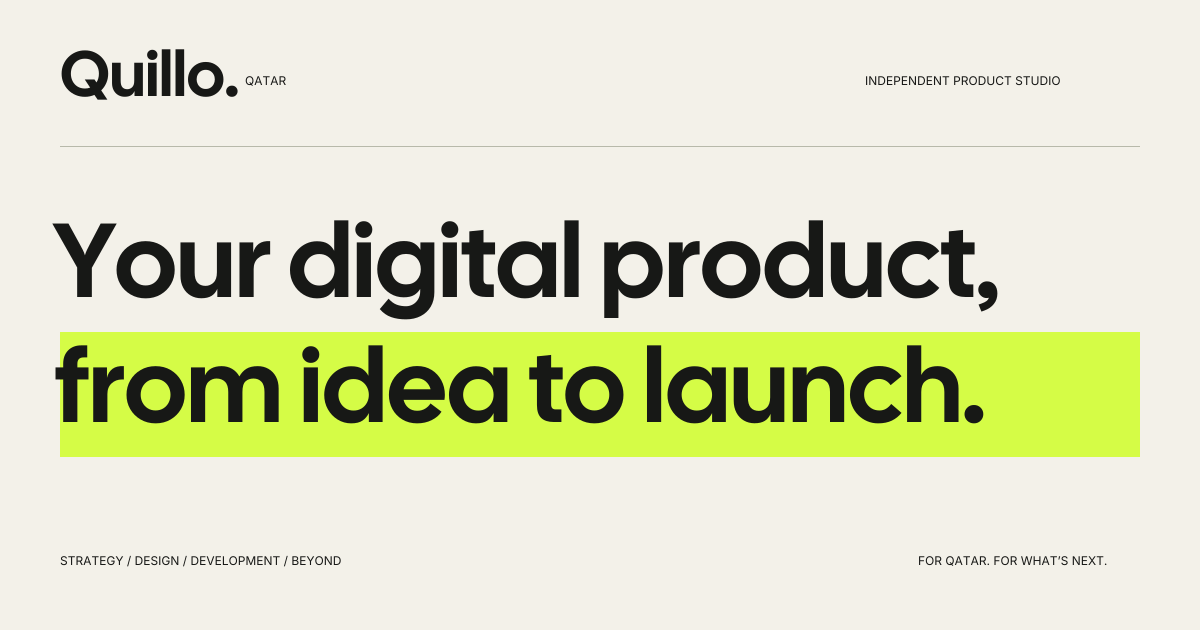
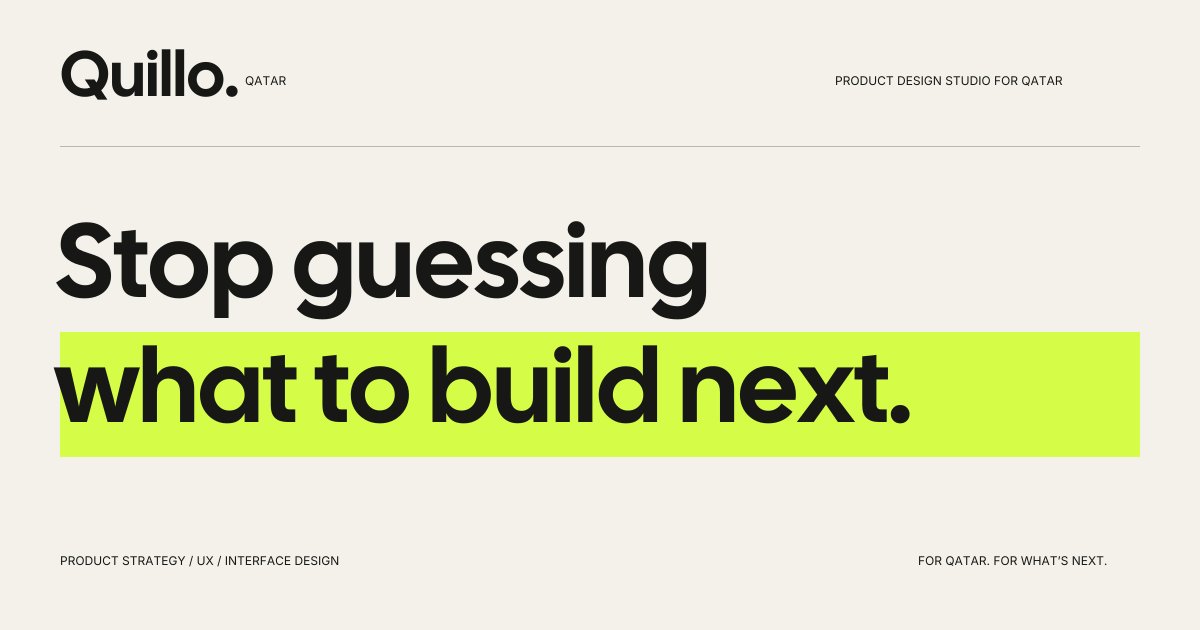
Clarify product design positioning and MVP Design scope

diff --git a/app/page.tsx b/app/page.tsx
@@ -24,8 +24,8 @@ const selectedProjects = ["stackray", "helpmegrow", "quillo"].map(slug => projec
 const capabilities = [
   { title: "Know what to build.", label: "STRATEGY & DISCOVERY", description: "Find the real problem, understand the people, and define the product worth making.", tags: ["Product strategy", "User journeys", "Requirements", "Roadmaps"] },
   { title: "Make it feel right.", label: "PRODUCT DESIGN", description: "Turn complexity into an experience people can understand, use, and come back to.", tags: ["UX research", "UX/UI design", "Prototyping", "Design systems"] },
-  { title: "Bring it to life.", label: "WEB & MOBILE DEVELOPMENT", description: "Connected, working products. From customer-facing apps to the tools behind your business.", tags: ["Web apps & SaaS", "iOS & Android", "Portals & internal tools", "APIs & integrations"] },
-  { title: "Launch. Learn. Improve.", label: "RELEASE & ONGOING SUPPORT", description: "Get it into people’s hands, make the handover clear, and keep the product moving forward.", tags: ["Testing & QA", "Deployment", "App-store submissions", "Maintenance & iteration"] },
+  { title: "Design it for the real world.", label: "WEB & MOBILE APP DESIGN", description: "Design clear, usable experiences for customer-facing apps and the tools behind your business, ready for your development team.", tags: ["Web apps & SaaS", "iOS & Android", "Portals & internal tools", "Responsive interfaces"] },
+  { title: "Hand it over. Keep improving.", label: "DEVELOPER HANDOFF & DESIGN SUPPORT", description: "Give your developers clear files and specifications, then refine the experience as you learn from users.", tags: ["Usability testing", "Design specifications", "Developer handoff", "Design iteration"] },
 ];
 function Label({ number, children }: { number: string; children: ReactNode }) {
   return <p className="q-label" data-reveal="rule"><span>{number}</span>{children}</p>;
@@ -37,17 +37,17 @@ function Hero() {
   const [entranceSkipped, setEntranceSkipped] = useState(false);
   return <section className="q-hero q-wrap" id="intro" aria-labelledby="hero-title" data-hero-skip={entranceSkipped || undefined}
     onFocusCapture={event => { if (event.target.matches(":focus-visible")) setEntranceSkipped(true); }}>
-    <div className="q-hero-eyebrow"><p><span className="q-live-dot" data-hero-enter="signal" /><span data-hero-enter="eyebrow">Independent minds. Complete products.</span></p><span data-hero-enter="location">FOR QATAR. FOR WHAT’S NEXT.</span></div>
+    <div className="q-hero-eyebrow"><p><span className="q-live-dot" data-hero-enter="signal" /><span data-hero-enter="eyebrow">PRODUCT DESIGN STUDIO FOR QATAR</span></p><span data-hero-enter="location">FOR QATAR. FOR WHAT’S NEXT.</span></div>
     <div className="q-hero-composition">
-      <ScrollHeadline>{[
-        <><span className="q-hero-piece" data-hero-enter="your">Your</span>{" "}<ElasticWord>digital</ElasticWord></>,
-        <><span className="q-hero-piece" data-hero-enter="product">product,</span>{" "}<span className="q-outline q-hero-piece" data-hero-enter="outline">from</span></>,
-        <><span><span className="q-hero-piece" data-hero-enter="idea">idea</span>{" "}<span className="q-hero-piece" data-hero-enter="to">to</span></span><LaunchSticker /></>,
+      <ScrollHeadline label="Stop guessing what to build next.">{[
+        <><span className="q-hero-piece" data-hero-enter="lead">Stop</span>{" "}<ElasticWord>guessing</ElasticWord></>,
+        <><span className="q-hero-piece" data-hero-enter="bridge">what</span>{" "}<span className="q-outline q-hero-piece" data-hero-enter="outline">to</span></>,
+        <><span className="q-hero-piece" data-hero-enter="verb">build</span><LaunchSticker /></>,
       ]}</ScrollHeadline>
       <StudioSeal />
     </div>
-    <div className="q-hero-bottom"><a className="q-scroll-link" href="#shipments"><span className="q-circle" data-hero-enter="scroll-disc"><Arrow /></span><span data-hero-enter="scroll-caption">SCROLL TO SEE<br />WHAT’S POSSIBLE</span></a><div><p data-hero-enter="description">We help startups and businesses in Qatar turn ideas into web and mobile products—with strategy, design, development, and launch handled by one team.</p><div className="q-hero-action" data-hero-enter="action"><ProjectLink location="hero">Let’s build your product</ProjectLink></div></div></div>
-    <div className="q-hero-index"><span data-hero-enter="index-left">STRATEGY / DESIGN / DEVELOPMENT / BEYOND</span><span data-hero-enter="index-right">01 — THE START OF SOMETHING</span></div>
+    <div className="q-hero-bottom"><a className="q-scroll-link" href="#shipments"><span className="q-circle" data-hero-enter="scroll-disc"><Arrow /></span><span data-hero-enter="scroll-caption">SCROLL TO SEE<br />WHAT’S POSSIBLE</span></a><div><p data-hero-enter="description">For founders turning an idea into a first product, and businesses whose current tools are holding them back. Quillo helps you find the right problem, shape the right solution, and design a web or mobile experience your team can take into development.</p><div className="q-hero-action" data-hero-enter="action"><ProjectLink location="hero">Let’s find your next move</ProjectLink><p className="q-hero-cta-note">A rough idea is enough to start.</p></div></div></div>
+    <div className="q-hero-index"><span data-hero-enter="index-left">PRODUCT STRATEGY / UX / INTERFACE DESIGN</span><span data-hero-enter="index-right">01 — THE START OF SOMETHING</span></div>
   </section>;
 }
 function ProjectArtwork({ project, index }: { project: (typeof selectedProjects)[number]; index: number }) {
@@ -73,7 +73,7 @@ function Capabilities() {
   return <section id="services" className="q-capabilities">
     <div className="q-wrap">
       <div className="q-section-top"><Label number="02">WHAT WE DO</Label><span className="q-small">FROM THE FIRST “WHAT IF” TO WHAT’S NEXT.</span></div>
-      <Stamp className="q-cap-stamp">NO<br />LOOSE<br />ENDS. ↙</Stamp><div className="q-cap-heading"><MotionTitle>{[<>A big picture.</>, <span className="q-title-accent" key="detail">Every little detail.</span>]}</MotionTitle><p>One team that connects the dots.<br />No gap between the idea and the thing people actually use.</p></div>
+      <Stamp className="q-cap-stamp">NO<br />LOOSE<br />ENDS. ↙</Stamp><div className="q-cap-heading"><MotionTitle>{[<>A big picture.</>, <span className="q-title-accent" key="detail">Every little detail.</span>]}</MotionTitle><p>Product strategy, UX, and interface design in one team.</p></div>
       <div className="q-cap-list">{capabilities.map((item, index) => <AnimatedDetails key={item.title} className="q-cap-item" open={index === 0} onToggle={event => captureLandingEvent("service selected", { location: "services", label: item.label, expanded: event.currentTarget.open, service_index: index + 1 })} summary={<><span className="q-cap-number">0{index + 1}</span><div><small data-reveal="rule">{item.label}</small><h3 data-reveal="line" data-reveal-delay={index * 60}>{item.title}</h3></div><span className="q-expand" aria-hidden="true" /></>}>
         <div className="q-cap-detail"><p>{item.description}</p><ul>{item.tags.map((tag, tagIndex) => <li key={tag} data-reveal="ticket" data-reveal-delay={tagIndex * 65}>{tag}</li>)}</ul></div>
       </AnimatedDetails>)}</div>
@@ -84,31 +84,31 @@ function About() {
   return <section id="about" className="q-about q-wrap">
     <Label number="03">THE STUDIO</Label>
     <div className="q-about-statement"><RegistrationType /></div>
-    <div className="q-about-bottom"><span className="q-about-aside" data-reveal="rule">SMALL ENOUGH TO CARE.<br />INVOLVED ENOUGH TO GET IT.</span><div data-reveal="sheet"><p className="q-lead">We’re Quillo Qatar. A product studio for people who see a better way of doing things.</p><p>Maybe you’re a founder building something new. Maybe you’re a business in Qatar ready to make a complicated process simple. We bring strategy, design, and development into the same conversation—and stay close from the first question to the next release.</p><a className="q-text-link" href="#contact">Meet your product team <Arrow /></a></div></div>
+    <div className="q-about-bottom"><span className="q-about-aside" data-reveal="rule">SMALL ENOUGH TO CARE.<br />INVOLVED ENOUGH TO GET IT.</span><div data-reveal="sheet"><p className="q-lead">We’re Quillo Qatar. A product design studio for people who see a better way of doing things.</p><p>Maybe you’re a founder building something new. Maybe you’re a business in Qatar ready to make a complicated process simple. We bring product strategy, UX, and interface design into the same conversation—from the first question to a clear handoff for your development team.</p><a className="q-text-link" href="#contact">Meet your product design team <Arrow /></a></div></div>
   </section>;
 }
 function Process() {
   return <section id="process" className="q-process">
     <div className="q-wrap"><div className="q-section-top"><Label number="04">HOW WE WORK</Label><span className="q-small">A SHARED DIRECTION. A CLEAR NEXT STEP.</span></div>
-      <div className="q-process-heading"><MotionTitle>{[<>From “what if”</>, <>to <span className="q-process-accent">“it’s live.”</span></>]}</MotionTitle><p>Clear milestones. Working previews. Honest conversations.<br />We set the timeline after discovery, around your actual scope.</p></div>
+      <div className="q-process-heading"><MotionTitle>{[<>From “what if”</>, <>to <span className="q-process-accent">“ready to build.”</span></>]}</MotionTitle><p>Clear milestones. Interactive prototypes. Honest conversations.<br />We set the timeline after discovery, around your actual scope.</p></div>
       <ProcessAssembly><ol className="q-timeline">{processSteps.map((step, index) => <li key={step.label} data-reveal="sheet" data-reveal-delay={index * 80}><span className="q-step-number" data-reveal="ticket" data-reveal-delay={120 + index * 80}>{step.label}</span><h3>{step.title}</h3><p>{step.description}</p><small>{step.deliverable}</small></li>)}</ol></ProcessAssembly>
-      <p className="q-process-note">Your product, in your hands. Source files, documentation, and access handover are part of the plan.</p>
+      <p className="q-process-note">Your design, ready for development. Design files, prototypes, specifications, and a handoff with your developers are part of the plan.</p>
     </div>
   </section>;
 }
 function Pricing() {
   return <section id="pricing" className="q-pricing q-wrap">
     <Label number="05">THE INVESTMENT</Label>
-    <div className="q-pricing-heading"><MotionTitle>{[<>A clear start.</>, <>Room to grow.</>]}</MotionTitle><div><span className="q-draft-label">PREVIEW / PROVISIONAL PRICING</span><p>Start with what you need. Platforms, features, integrations, and support scope determine your final quote.</p></div></div>
+    <div className="q-pricing-heading"><MotionTitle>{[<>A clear start.</>, <>Room to grow.</>]}</MotionTitle><div><span className="q-draft-label">PREVIEW / PROVISIONAL PRICING</span><p>Start with what you need. User journeys, screens, platforms, and research scope determine your final design quote.</p></div></div>
     <div className="q-price-table">{services.map((service, index) => <article key={service.id} className="q-price-row" data-reveal="sheet">
       <div className="q-price-title"><span className="q-small">0{index + 1} / {service.description}</span><h3>{service.title}</h3></div>
-      <ul>{service.includes.map(item => <li key={item}>{item}</li>)}</ul>
+      <div className="q-price-deliverables"><ul>{service.includes.map(item => <li key={item}>{item}</li>)}</ul>{service.scopeNote && <p className="q-price-scope">{service.scopeNote}</p>}</div>
       <div data-reveal="ticket" data-reveal-delay="200" className="q-price-amount ag-price-amount" data-analytics-plan={service.description} data-analytics-price={service.amount} data-analytics-currency={service.currency} data-analytics-interval={service.interval}>
         <span>Starting from</span><p><small>{service.currency}</small> {formatPrice(service.amount)}</p><span>{service.interval === "month" ? "per month · agreed scope" : "per project · agreed scope"}</span>
         <a href={bookingUrl} target="_blank" rel="noopener noreferrer" className="q-text-link" data-analytics-location="pricing">Let’s talk scope <Arrow /></a>
       </div>
     </article>)}</div>
-    <p className="q-pricing-note">Draft starting prices for this local preview. An MVP covers one agreed core experience; web, iOS, and Android are scoped individually. Final pricing and third-party costs are confirmed in your proposal.</p>
+    <p className="q-pricing-note">Draft starting prices for this local preview. MVP Design covers a tested prototype and development-ready design for one agreed core experience, not working software. Web, iOS, and Android are scoped individually. Development is scoped separately with your team or development partner. Final deliverables and pricing are confirmed in your proposal.</p>
   </section>;
 }
 function Testimonials() {
@@ -126,7 +126,7 @@ function Contact() {
   const [calendarLoaded, setCalendarLoaded] = useState(false);
   return <ContactScene>
     <div className="q-wrap"><div className="q-section-top"><Label number="08">YOUR NEXT CHAPTER</Label><span className="q-small">AN IDEA. A CHALLENGE. A CONVERSATION.</span></div>
-      <Stamp className="q-contact-stamp">GOOD<br />THINGS<br />AHEAD. ↗</Stamp><div className="q-contact-main"><ContactHeadline /><div data-reveal="ticket" data-reveal-delay="140"><p>You bring the ambition.<br />We’ll bring the questions, the thinking,<br />and the team to make it real.</p><button className="q-button" type="button" aria-expanded={showCalendar} aria-controls="q-booking" onClick={() => { setCalendarLoaded(true); setShowCalendar(!showCalendar); }}>{showCalendar ? "Close the calendar" : "Book a discovery call"}<Arrow /></button><span className="q-contact-small">30 minutes. A useful first conversation.</span></div></div>
+      <Stamp className="q-contact-stamp">GOOD<br />THINGS<br />AHEAD. ↗</Stamp><div className="q-contact-main"><ContactHeadline /><div data-reveal="ticket" data-reveal-delay="140"><p>You bring the ambition.<br />We’ll bring the questions, the thinking,<br />and the design to move you forward.</p><button className="q-button" type="button" aria-expanded={showCalendar} aria-controls="q-booking" onClick={() => { setCalendarLoaded(true); setShowCalendar(!showCalendar); }}>{showCalendar ? "Close the calendar" : "Book a discovery call"}<Arrow /></button><span className="q-contact-small">30 minutes. A useful first conversation.</span></div></div>
       <div id="q-booking" className="q-booking-shell" data-open={showCalendar} inert={!showCalendar} aria-hidden={!showCalendar}><div><div className="q-booking-panel">{calendarLoaded && <><p className="q-booking-note">Local preview: this is the team’s existing Hippo calendar. A Quillo Qatar booking page will replace it before launch.</p><BookingCalendar /><a href={bookingUrl} target="_blank" rel="noopener noreferrer" className="q-text-link" data-analytics-location="calendar_fallback">Open calendar in a new tab <Arrow /></a></>}</div></div></div>
     </div>
   </ContactScene>;

diff --git a/data/faqs.ts b/data/faqs.ts
@@ -1,9 +1,9 @@
 export const faqs = [
-  { question: "What can you build with us?", answer: "Web applications, SaaS products, customer portals, internal tools, and iOS and Android apps. We define the right platform and first release around your users, business goals, and budget. You can bring us a new idea or an existing product that needs to evolve." },
+  { question: "What can you design with us?", answer: "Web applications, SaaS products, customer portals, internal tools, and iOS and Android apps. We define the right experience around your users, business goals, and budget, then create prototypes and interface designs for your developers. You can bring us a new idea or an existing product that needs to evolve." },
   { question: "Do we need a fully formed idea?", answer: "No. Bring the problem, the opportunity, or the workflow that is slowing your business down. Discovery turns that starting point into requirements, a prioritized scope, and a practical roadmap." },
-  { question: "How long does a product take?", answer: "We agree on a timeline after discovery, once the platforms, core features, integrations, and dependencies are understood. You get clear milestones and regular working previews. There is no blanket two-week promise for an entire product." },
-  { question: "What do the starting prices include?", answer: "The preview shows provisional starting prices in QAR for discovery, a scoped MVP, and monthly support. A scoped MVP covers an agreed core experience; it does not automatically include a website, iOS app, and Android app together. Platforms, features, integrations, and support scope determine your final quote. Third-party subscriptions and platform fees are identified separately in the proposal." },
-  { question: "Do you handle launch and app stores?", answer: "Yes. We support deployment, release testing, store assets and submission, and handover for the platforms in your scope. App-store reviews and approval dates are controlled by Apple and Google, so we cannot guarantee them." },
-  { question: "What happens after launch?", answer: "You receive the agreed source files, documentation, and access handover. We agree on ownership and third-party licenses in the proposal. Ongoing maintenance, monitoring, fixes, and new features are available through a separately scoped support engagement." },
+  { question: "How long does product design take?", answer: "We agree on a timeline after discovery, once the user journeys, screens, platforms, and research needs are understood. You get clear design milestones and regular prototype reviews. Development timelines are agreed separately with your development team or partner." },
+  { question: "What do the starting prices include?", answer: "The preview shows provisional starting prices in QAR for product discovery, MVP Design, and monthly design support. MVP Design includes the agreed core user journeys, high-fidelity screens, an interactive prototype, usability testing, and design files and specifications for developer handoff. It does not include working software. Web, iOS, and Android are scoped individually. Final deliverables and pricing are confirmed in your proposal; development is scoped separately." },
+  { question: "Do you develop the product?", answer: "We handle product strategy and design, including prototypes and developer handoff. Development is scoped separately with your team or development partner." },
+  { question: "What happens after handoff?", answer: "You receive the agreed design files, prototypes, and specifications, and we walk your developers through the experience. We agree on ownership and third-party licenses in the proposal. Ongoing UX reviews, usability improvements, and feature design are available through a separately scoped design support engagement." },
   { question: "Do you work with businesses in Qatar?", answer: "Yes. Quillo Qatar is focused on startups and established businesses serving Qatar. We plan communication around Qatar time and quote in QAR. This site is in English; Arabic product experiences and right-to-left interfaces can be included in your project scope." },
 ];

diff --git a/app/components/stackray-story.tsx b/app/components/stackray-story.tsx
@@ -143,6 +143,6 @@ function Funnel() {return <section className="sr-section ag-wrap" id="funnel"><L
 function Delivery() {return <section className="sr-dark sr-delivery" id="delivery"><div className="ag-wrap sr-section"><Label number="11">Delivery</Label><Title>We didn’t stop<br/><em>at Figma.</em></Title><ul className="sr-delivery-list">{delivery.map((item,i)=><li key={item}><span>0{i+1}</span><strong>{item}</strong><ResponsiveImage src="/agero/check.svg" alt=""/></li>)}</ul><p className="sr-dark-note">The interface wasn’t handed off and forgotten.<br/><strong>We shipped the system collecting the leads.</strong></p></div></section>;}
 function Outcomes() {return <section className="sr-section ag-wrap" id="outcome"><Label number="12">What shipped</Label><Title>No invented<br/><em>conversion numbers.</em></Title><p className="sr-outcome-intro">Just the system that is live today.</p><Trail label="What shipped" items={["Positioning","Landing page","Waitlist","Confirmation","Admin","Invite"]}/><div className="sr-measure"><span className="sr-eyebrow">WHAT WE’LL MEASURE NEXT</span><ul>{["Waitlist conversion","CTA engagement","Visitor → signup","Traffic","Invites sent"].map(t=><li key={t}>{t}</li>)}</ul><p>Stackray went from a complex product idea to a proposition someone can understand before finishing the hero.</p></div></section>;}
 function Takeaway() {return <section className="sr-section sr-takeaway" id="takeaway"><div className="ag-wrap"><Label number="13">Founder takeaway</Label><Title>Your product probably<br/>isn’t too complicated.</Title><Reveal><p className="sr-takeaway-answer">Your website may just be explaining it from the inside out.</p></Reveal><div className="sr-takeaway-bottom"><p>Stackray had Gmail scanning, subscription detection, security, cancellation, evidence systems and multiple finding types.<br/><br/>The website didn’t need to explain all of them at once. It needed to make one idea obvious:</p><blockquote>Connect your inbox.<br/>See where your SaaS<br/>money is leaking.</blockquote></div></div></section>;}
-function Outro() {return <section className="sr-section sr-outro ag-wrap" id="case-outro"><p className="ag-label">(Your next product starts here)</p><Title>Your next idea.<br/><em>Let’s build it.</em></Title><Booking location="stackray_outro"/><p>A useful first conversation.<br/>30 minutes to explore your product and next steps.</p></section>;}
+function Outro() {return <section className="sr-section sr-outro ag-wrap" id="case-outro"><p className="ag-label">(Your next product starts here)</p><Title>Your next idea.<br/><em>Let’s shape it.</em></Title><Booking location="stackray_outro"/><p>A useful first conversation.<br/>30 minutes to explore your product and next steps.</p></section>;}
 
 export function StackrayStory() {return <div className="sr-story"><nav className="sr-chapters" aria-label="Case-study chapters"><a href="#snapshot">Overview</a><a href="#positioning">Strategy</a><a href="#experience">Experience</a><a href="#delivery">Delivery</a><a href="#outcome">Outcome</a></nav><Snapshot/><Problem/><Positioning/><Evidence/><Architecture/><Messaging/><Trust/><VisualDirection/><Experience/><Funnel/><Delivery/><Outcomes/><Takeaway/><Outro/></div>;}

diff --git a/app/components/quillo-story.tsx b/app/components/quillo-story.tsx
@@ -161,4 +161,4 @@ function Outcome() { return <section className="ql-section ag-wrap" id="outcome"
   <Reveal className="ql-takeaway"><span className="ql-eyebrow">THE FOUNDER TAKEAWAY</span><blockquote>When information is everywhere,<br /><em>direction becomes the value.</em></blockquote><p>Quillo’s page makes the path, the evidence, and the next step easy to understand.</p></Reveal>
 </section>; }
 
-export function QuilloStory() { return <article className="ql-story"><nav className="ql-chapters" aria-label="Case-study chapters"><a href="#snapshot">Overview</a><a href="#strategy">Strategy</a><a href="#experience">Experience</a><a href="#outcome">Outcome</a></nav><Snapshot /><Challenge /><Strategy /><Positioning /><Journey /><Opening /><LearningLoop /><LandingPageProof /><VisualDirection /><Objections /><Conversion /><Outcome /><section className="ql-outro ql-section" id="case-outro"><div className="ag-wrap"><p className="ag-label">(Your next product starts here.)</p><Title>Your next idea.<br /> <em>Let’s build it.</em></Title><a className="ag-button" href={bookingUrl} target="_blank" rel="noopener noreferrer" data-analytics-location="quillo_outro">Book a call <Arrow /></a><p className="ql-note">30 minutes to explore your product, priorities, and next steps.</p></div></section></article>; }
+export function QuilloStory() { return <article className="ql-story"><nav className="ql-chapters" aria-label="Case-study chapters"><a href="#snapshot">Overview</a><a href="#strategy">Strategy</a><a href="#experience">Experience</a><a href="#outcome">Outcome</a></nav><Snapshot /><Challenge /><Strategy /><Positioning /><Journey /><Opening /><LearningLoop /><LandingPageProof /><VisualDirection /><Objections /><Conversion /><Outcome /><section className="ql-outro ql-section" id="case-outro"><div className="ag-wrap"><p className="ag-label">(Your next product starts here.)</p><Title>Your next idea.<br /> <em>Let’s shape it.</em></Title><a className="ag-button" href={bookingUrl} target="_blank" rel="noopener noreferrer" data-analytics-location="quillo_outro">Book a call <Arrow /></a><p className="ql-note">30 minutes to explore your product, priorities, and next steps.</p></div></section></article>; }

diff --git a/app/hero-entrance.css b/app/hero-entrance.css
@@ -3,6 +3,7 @@
 .q-hero-piece, .q-launch-arrival { display: inline-block; }
 .q-launch-arrival { transform-origin: 0 100%; }
 .q-hero-action { width: fit-content; }
+.q-site .q-hero-cta-note { margin-top: 12px; font-size: 11px; line-height: 1.6; color: var(--q-muted); }
 .q-hero-index { position: relative; border-top-color: transparent; }
 .q-hero-index::before { content: ""; position: absolute; top: -1px; left: 0; right: 0; height: 1px; background: var(--q-line); transform-origin: 0 50%; }
 
@@ -17,12 +18,11 @@
   .q-hero [data-hero-enter="signal"] { animation-name: q-hero-fade; animation-duration: 450ms; }
   .q-hero [data-hero-enter="eyebrow"] { animation-name: q-hero-wipe; --q-enter-delay: 50ms; }
   .q-hero [data-hero-enter="location"] { animation-name: q-hero-wipe; --q-enter-delay: 110ms; }
-  .q-hero [data-hero-enter="your"] { animation-name: q-hero-type; --q-enter-delay: 100ms; }
-  .q-hero [data-hero-enter="digital"] { animation-name: q-hero-type; --q-enter-delay: 175ms; }
-  .q-hero [data-hero-enter="product"] { animation-name: q-hero-type; --q-enter-delay: 250ms; }
+  .q-hero [data-hero-enter="lead"] { animation-name: q-hero-type; --q-enter-delay: 100ms; }
+  .q-hero [data-hero-enter="word"] { animation-name: q-hero-type; --q-enter-delay: 175ms; }
+  .q-hero [data-hero-enter="bridge"] { animation-name: q-hero-type; --q-enter-delay: 250ms; }
   .q-hero [data-hero-enter="outline"] { animation-name: q-hero-outline; --q-enter-delay: 335ms; }
-  .q-hero [data-hero-enter="idea"] { animation-name: q-hero-type; --q-enter-delay: 400ms; }
-  .q-hero [data-hero-enter="to"] { animation-name: q-hero-type; --q-enter-delay: 445ms; }
+  .q-hero [data-hero-enter="verb"] { animation-name: q-hero-type; --q-enter-delay: 400ms; }
   .q-hero [data-hero-enter="sticker"] { animation-name: q-hero-sticker; --q-enter-delay: 530ms; animation-duration: 950ms; }
   .q-hero [data-hero-enter="seal"] { animation-name: q-hero-seal; --q-enter-delay: 430ms; animation-duration: 1000ms; }
   .q-hero [data-hero-enter="hint"] { animation-name: q-hero-hint; --q-enter-delay: 850ms; animation-duration: 650ms; }

diff --git a/app/components/studio-play.tsx b/app/components/studio-play.tsx
@@ -37,14 +37,14 @@ export function LaunchSticker() {
 
   return <span className="q-sticker-anchor">
     <span className="q-launch-arrival" data-hero-enter="sticker">
-    <m.button type="button" className="q-launch-sticker" aria-label="Toss the launch sticker" title="Drag it or press to give it a toss"
+    <m.button type="button" className="q-launch-sticker" aria-label="Toss the next step sticker" title="Drag it or press to give it a toss"
       drag={!reduced} dragMomentum={false} dragElastic={.15} dragConstraints={{ left: -70, right: 70, top: -60, bottom: 45 }}
       style={{ x, y, rotate: rotation }} onPointerDown={() => { dragged.current = false; }}
       onDragStart={() => { dragged.current = true; stop(); }} onDrag={(_, info) => rotation.set(-3 + info.offset.x * .12)} onDragEnd={land}
       onClick={event => { if (event.detail === 0 || !dragged.current) toss(); }}
       whileDrag={{ scale: 1.08, cursor: "grabbing" }}>
-      <span className="q-sticker-meta" aria-hidden="true"><span>IDEA → REALITY</span><span>№ 001</span></span>
-      <span>launch.</span>
+      <span className="q-sticker-meta" aria-hidden="true"><span>FIND YOUR NEXT MOVE</span><span>№ 001</span></span>
+      <span>next.</span>
       <span className="q-sticker-notch" aria-hidden="true" />
     </m.button>
     </span>
@@ -54,7 +54,7 @@ export function LaunchSticker() {
 
 export function ElasticWord({ children }: { children: string }) {
   const reduced = useReducedMotion();
-  return <span className="q-elastic-word" data-hero-enter="digital" aria-label={children}>{[...children].map((letter, index) => <m.span key={index} aria-hidden="true"
+  return <span className="q-elastic-word" data-hero-enter="word" aria-label={children}>{[...children].map((letter, index) => <m.span key={index} aria-hidden="true"
     whileHover={reduced ? {} : { y: -16, rotate: index % 2 ? 12 : -12, scaleY: 1.18 }}
     transition={{ type: "spring", stiffness: 450, damping: 10 }}
     >{letter}</m.span>)}</span>;

diff --git a/data/services.ts b/data/services.ts
@@ -1,15 +1,16 @@
 export type Service = {
   id: string; title: string; description: string; amount: number;
-  currency: "QAR"; interval: "project" | "month"; includes: string[];
+  currency: "QAR"; interval: "project" | "month"; includes: string[]; scopeNote?: string;
 };
 /** Provisional starting prices for the local preview, not final quotations. */
 export const services: Service[] = [
   { id: "discovery", title: "Find the right first move.", description: "Product discovery", amount: 5000, currency: "QAR", interval: "project",
     includes: ["Business goals & user needs", "Requirements & core journeys", "Prioritized scope & product roadmap"] },
-  { id: "mvp", title: "Make the idea real.", description: "Scoped MVP", amount: 25000, currency: "QAR", interval: "project",
-    includes: ["UX/UI for the agreed core experience", "Development, integrations & testing", "Launch support & product handover"] },
-  { id: "support", title: "Keep moving forward.", description: "Ongoing support", amount: 2500, currency: "QAR", interval: "month",
-    includes: ["Agreed maintenance & monitoring", "Prioritized fixes & improvements", "A clear monthly scope & review"] },
+  { id: "mvp", title: "Design the first version.", description: "MVP Design", amount: 25000, currency: "QAR", interval: "project",
+    includes: ["Core user journeys & high-fidelity screens", "Interactive prototype & usability testing", "Design files, UI specifications & developer handoff"],
+    scopeNote: "Design deliverables only. Development is scoped separately." },
+  { id: "support", title: "Keep moving forward.", description: "Ongoing design support", amount: 2500, currency: "QAR", interval: "month",
+    includes: ["UX reviews & usability improvements", "Design updates for agreed features", "A clear monthly design scope & review"] },
 ];
 export function formatPrice(amount: number) {
   return new Intl.NumberFormat("en-QA", { maximumFractionDigits: 0 }).format(amount);

diff --git a/app/components/helpmegrow-story.tsx b/app/components/helpmegrow-story.tsx
@@ -137,6 +137,6 @@ function Outcome() { return <section className="hmg-section ag-wrap" id="outcome
   <Reveal className="hmg-takeaway"><span className="hmg-eyebrow">THE FOUNDER TAKEAWAY</span><blockquote>{study.takeaway}</blockquote></Reveal>
 </section>; }
 
-function Outro() { return <section className="hmg-outro hmg-section" id="case-outro"><div className="ag-wrap"><p className="ag-label">(From the first idea to the next release.)</p><Title>Your next idea.{" "}<br /><em>Let’s build it.</em></Title><a className="ag-button" href={bookingUrl} target="_blank" rel="noopener noreferrer" data-analytics-location="helpmegrow_outro">Book a call <ResponsiveImage className="ag-icon" src="/agero/arrow.svg" alt="" /></a><p className="hmg-outro-note">30 minutes to explore your product, priorities, and next steps.</p></div></section>; }
+function Outro() { return <section className="hmg-outro hmg-section" id="case-outro"><div className="ag-wrap"><p className="ag-label">(From the first idea to developer handoff.)</p><Title>Your next idea.{" "}<br /><em>Let’s shape it.</em></Title><a className="ag-button" href={bookingUrl} target="_blank" rel="noopener noreferrer" data-analytics-location="helpmegrow_outro">Book a call <ResponsiveImage className="ag-icon" src="/agero/arrow.svg" alt="" /></a><p className="hmg-outro-note">30 minutes to explore your product, priorities, and next steps.</p></div></section>; }
 
 export function HelpMeGrowStory() { return <article className="hmg-story"><nav className="hmg-chapters" aria-label="Case-study chapters"><a href="#snapshot">Overview</a><a href="#strategy">Strategy</a><a href="#experience">Experience</a><a href="#outcome">Outcome</a></nav><Snapshot /><Challenge /><Audience /><Strategy /><Journey /><AboveFold /><Outcomes /><ProductProof /><Conversion /><NextIteration /><Outcome /><Outro /></article>; }

diff --git a/data/process.ts b/data/process.ts
@@ -1,6 +1,6 @@
 export const processSteps = [
   { label: "01", title: "Find the why.", description: "We get close to your business, your users, and the problem worth solving.", deliverable: "A clear brief & prioritized scope" },
-  { label: "02", title: "Shape the how.", description: "User journeys become prototypes. We test the experience before committing to the build.", deliverable: "UX/UI & a working prototype" },
-  { label: "03", title: "Build the thing.", description: "We develop, connect, and test the product in focused milestones you can see and use.", deliverable: "A tested web or mobile product" },
-  { label: "04", title: "Go live. Go further.", description: "Deployment, app-store submission support, and handover. Then a plan for what comes next.", deliverable: "Launch, ownership & ongoing improvement" },
+  { label: "02", title: "Shape the how.", description: "We map the key user journeys and explore the structure of the experience before refining the interface.", deliverable: "User flows & wireframes" },
+  { label: "03", title: "Design and test the experience.", description: "We design and prototype the key journeys, then prepare clear files and specifications for development.", deliverable: "A tested prototype and development-ready design" },
+  { label: "04", title: "Hand it over. Keep improving.", description: "We walk your developers through the design, answer questions, and agree on a plan for future design improvements.", deliverable: "Developer handoff & an improvement plan" },
 ];

diff --git a/data/qualification.ts b/data/qualification.ts
@@ -2,13 +2,13 @@ export const qualificationRows = [
   "You see an opportunity, but need a clear product roadmap.",
   "Your business runs on workarounds that could become one connected tool.",
   "Your customers need a better web or mobile experience.",
-  "You want one team to take responsibility from discovery through launch.",
+  "You want one design team to take responsibility from discovery through developer handoff.",
   "You have a product in market and a clear ambition for its next release.",
 ];
 
 export const buyerQuestions = [
   { question: "WHAT SHOULD WE BUILD?", answer: "Find the problem worth solving and the smallest useful first release.", chip: "Clear scope", tone: "lime" },
   { question: "WHO IS IT FOR?", answer: "Design around the people who will actually use the product.", chip: "User needs", tone: "lime" },
-  { question: "HOW WILL IT WORK?", answer: "Connect the experience, the technology, and the operations behind it.", chip: "One product", tone: "lime" },
-  { question: "WHAT HAPPENS NEXT?", answer: "Launch with a clear handover and an agreed plan for improvement.", chip: "Beyond launch", tone: "lime" },
+  { question: "HOW WILL IT WORK?", answer: "Explore and test the key journeys in an interactive prototype.", chip: "A clear experience", tone: "lime" },
+  { question: "WHAT HAPPENS NEXT?", answer: "Take clear design files and specifications into development with your team or partner.", chip: "Ready for development", tone: "lime" },
 ];

diff --git a/app/components/agero-chrome.tsx b/app/components/agero-chrome.tsx
@@ -46,7 +46,7 @@ export function Footer({ homePath = "" }: { homePath?: string }) {
     <div className="q-wrap">
       <div className="q-footer-top" data-reveal="rule"><p>Good things start<br />with a conversation.</p><a href={bookingUrl} target="_blank" rel="noopener noreferrer" className="q-footer-talk" data-analytics-location="footer">Let’s make<br />something matter.<Arrow /></a></div>
       <div className="q-footer-links"><a href={`${homePath}#shipments`}>Selected work</a><a href={`${homePath}#services`}>Our capabilities</a><a href={`${homePath}#faq`}>Your questions</a><a href={homePath || "#top"}>{homePath ? "Back to home" : "Back to top"}<Arrow /></a></div>
-      <div data-reveal="sheet" className="q-footer-wordmark" aria-label="Quillo Qatar"><span>Quillo.</span><small>QATAR<br />PRODUCT<br />STUDIO</small></div>
+      <div data-reveal="sheet" className="q-footer-wordmark" aria-label="Quillo Qatar"><span>Quillo.</span><small>QATAR<br />PRODUCT DESIGN<br />STUDIO</small></div>
       <div className="q-footer-meta"><span>© {new Date().getFullYear()} Quillo Qatar</span><span>Made for what’s next.</span><span>Qatar time{time ? ` / ${time}` : ""} · UTC+3</span></div>
     </div>
   </footer>;

diff --git a/app/layout.tsx b/app/layout.tsx
@@ -11,11 +11,11 @@ import { siteUrl, siteName, siteDescription, isPublicSite } from "@/lib/site";
 
 export const metadata: Metadata = {
   ...(siteUrl ? { metadataBase: new URL(siteUrl), alternates: { canonical: "/" } } : {}),
-  title: "Quillo Qatar | Your digital product, from idea to launch",
+  title: "Quillo Qatar | Product Design Studio for Qatar",
   description: siteDescription,
   openGraph: {
     title: siteName, description: siteDescription, siteName, type: "website", locale: "en_QA",
-    ...(siteUrl ? { url: siteUrl, images: [{ url: "/og.png", width: 1200, height: 630, alt: "Quillo Qatar — Your digital product, from idea to launch." }] } : {}),
+    ...(siteUrl ? { url: siteUrl, images: [{ url: "/og.png", width: 1200, height: 630, alt: "Quillo Qatar — Stop guessing what to build next." }] } : {}),
   },
   twitter: { card: "summary_large_image", title: siteName, description: siteDescription, ...(siteUrl ? { images: ["/og.png"] } : {}) },
   icons: { icon: [{ url: "/favicon.svg", type: "image/svg+xml" }, { url: "/favicon-32x32.png", sizes: "32x32", type: "image/png" }], shortcut: "/favicon.ico" },
